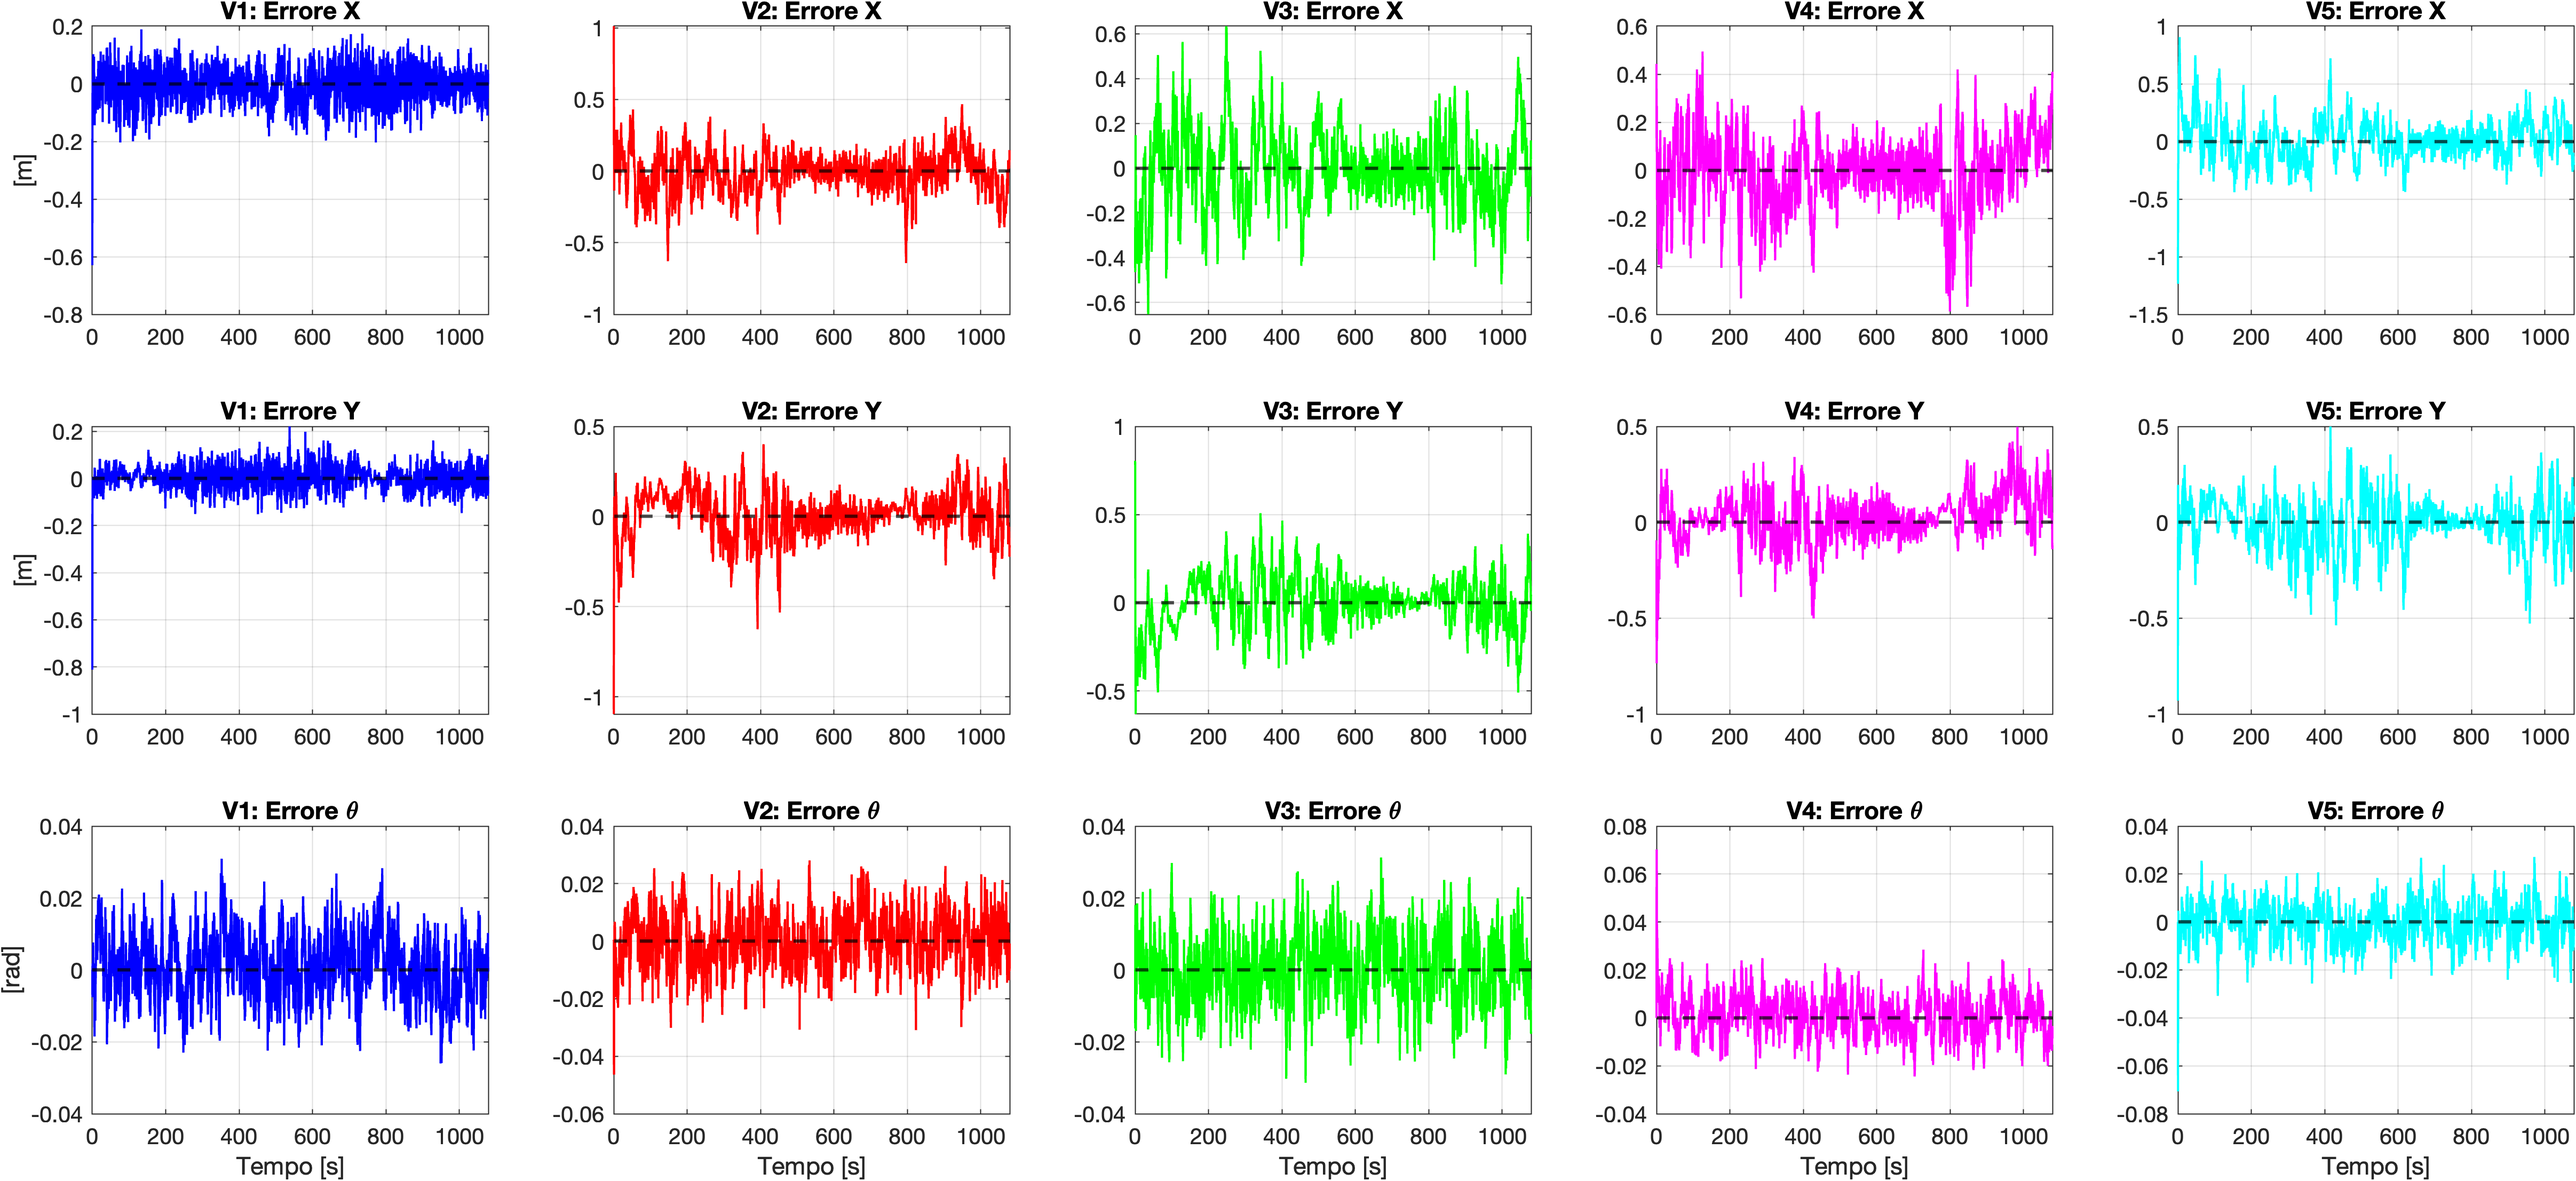
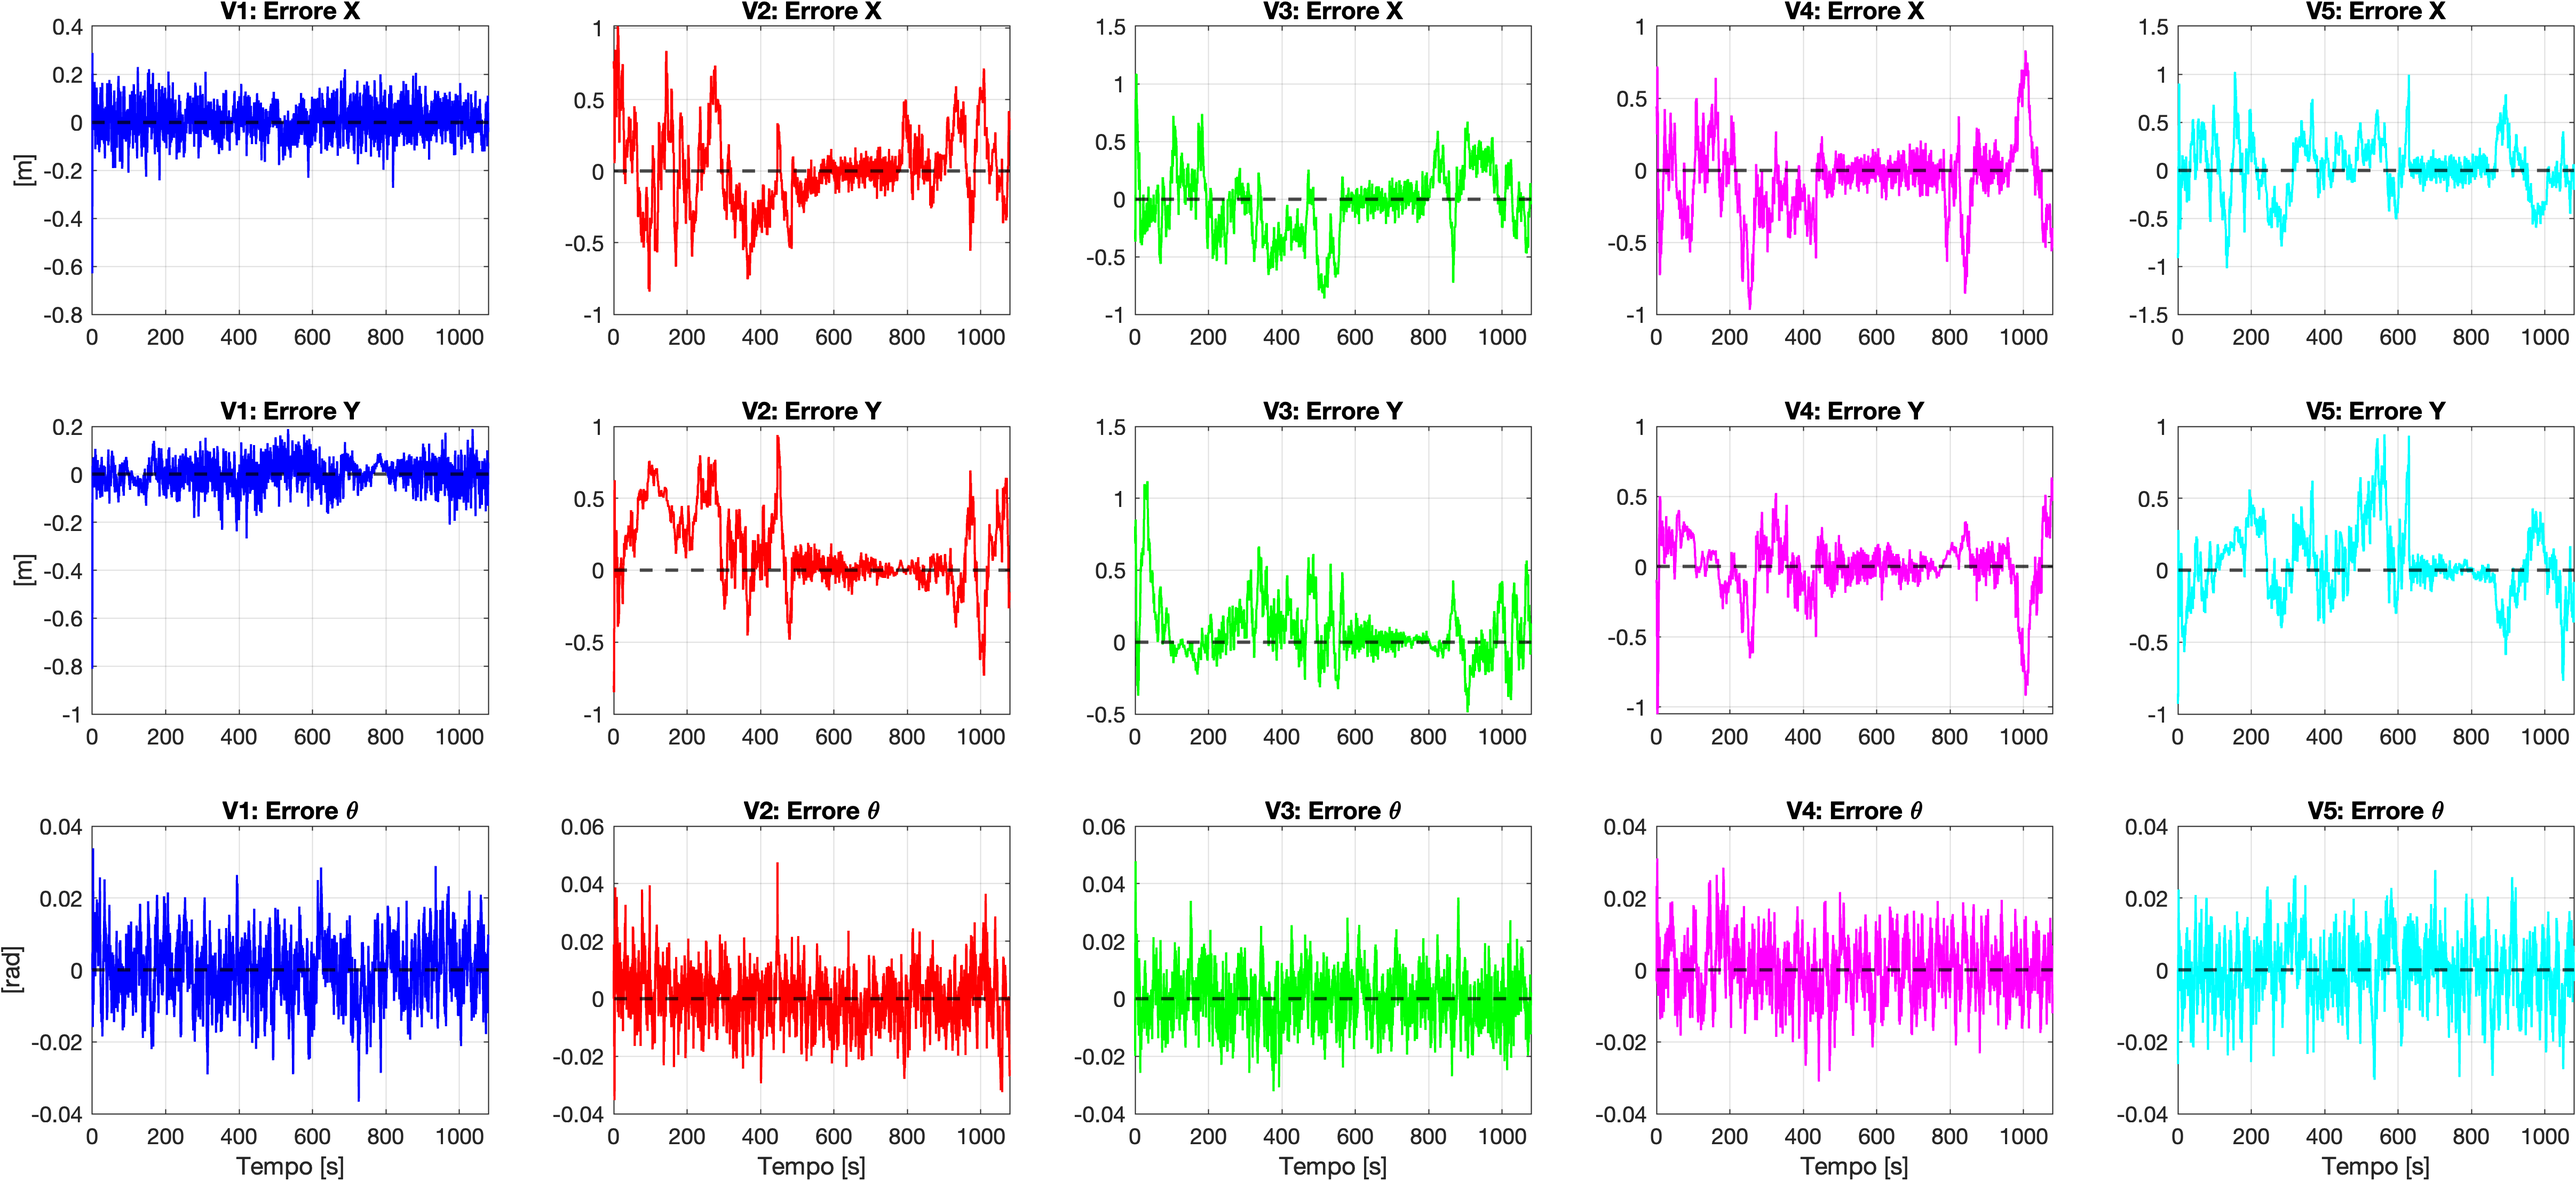
Step 4.2: taratura dei sensori con parametri e frequenze di sensori realmente usati in questo ambito off-highway.
NB: rimane ancora valido che uso le ancore UWB fixed SOLO quando sono in GPS-denied! (rimane l'architettura commutativa, se la tolgo: accuratezza migliora!)

diff --git a/fase_4/main4.m b/fase_4/main4.m
@@ -74,13 +74,38 @@ par_Q.k_terreno = 0.0;    % [1/s]       Q adattiva q_a += k_terreno*v^2, attiva 
 % filtro pessimista e non ottimista: e' la condizione sicura. La calibrazione
 % contro uno slittamento vero sara' possibile solo in Fase 5.
 
-% COVARIANZE DEI SENSORI
-R_gps_master  = diag([0.2^2, 0.2^2]);    % [x, y] ricevitore RTK
-R_gps_slave   = diag([2.0^2, 2.0^2]);    % [x, y] ricevitore standard
-R_imu         = diag([0.05^2, 0.02^2]);  % [theta, omega]
+% SENSORI: MODELLI REALI E FREQUENZE NATIVE
+% Il passo di simulazione resta 10 Hz. Ogni sensore viene pero' trattato per
+% quello che e': chi lavora piu' in fretta del passo si legge a 10 Hz senza
+% penalita', chi lavora piu' piano fornisce una misura solo ogni N passi.
+%
+%   AHRS Xsens MTi-3            100 Hz interni, letto a 10 Hz
+%     filtra internamente e restituisce un assetto gia' elaborato, quindi la
+%     sigma di targa vale alla frequenza di lettura e non va riscalata.
+%   Sensore di velocita' a effetto Hall sul pignone di trazione
+%     conta impulsi sulla finestra di campionamento: 100 ms e' la finestra
+%     naturale, ne' lenta ne' veloce rispetto al passo.
+%   Ranging UWB Qorvo DW1000    ~1 ms per scambio TW-TOF
+%     con 5 ancore e 4 vicini servono 9 scambi, cioe' 9 ms su 100: sta nel passo.
+%   GNSS u-blox ZED-F9P (RTK)   fino a 20 Hz, qui usato a 5 Hz
+%   GNSS u-blox NEO-M8N         1 Hz nominale
+%
+% E' il GNSS l'unico sensore piu' lento del passo, e va decimato: campionarlo
+% a 10 Hz significherebbe dargli fino a dieci volte le misure che produce,
+% cioe' dichiarare un ricevitore migliore di quello montato. Con un NEO-M8N a
+% 1 Hz l'equivalente sarebbe sigma = 0.63 m anziche' 2.0 m.
+R_gps_master  = diag([0.2^2, 0.2^2]);    % [x, y] ZED-F9P in RTK su neve, valore conservativo
+R_gps_slave   = diag([2.0^2, 2.0^2]);    % [x, y] NEO-M8N, 2.5 m CEP da datasheet
+R_imu         = diag([0.05^2, 0.02^2]);  % [theta, omega] MTi-3: 2 deg RMS su yaw
 R_enc         = diag([0.1^2, 0.1^2]);    % [w_destro, w_sinistro]
 R_traz_master = 0.010^2;                 % [-]^2 torsiometro, trasmissione strumentata
 R_traz_slave  = 0.025^2;                 % [-]^2 torsiometro, sensoristica di serie
+
+% Periodo di aggiornamento del GNSS, espresso in passi di simulazione
+f_gps_master  = 5;                       % [Hz] ZED-F9P, conservativo sui 20 di targa
+f_gps_slave   = 1;                       % [Hz] NEO-M8N, frequenza nominale
+passi_gps_master = round(f_s / f_gps_master);   % 1 fix ogni 2 passi
+passi_gps_slave  = round(f_s / f_gps_slave);    % 1 fix ogni 10 passi
 
 % Il torsiometro misura lo sforzo di trazione specifico F_traz/W ed e' l'unico
 % sensore che non serve alla stima della posa: alimenta il D-WLS della §5.
@@ -259,6 +284,8 @@ fleet = repmat(struct( ...
     'in_denied_hist', false(1, N_steps), ...      % copertura GPS
     'n_uwb_hist',     zeros(1, N_steps), ...      % ancore fisse in vista (figura 5)
     'R_gps',          [], ...
+    'passi_gps',      1, ...                     % periodo del fix GNSS, in passi
+    'n_fix_gps',      0, ...                     % fix effettivamente ricevuti
     'R_traz',         0, ...
     'F_loc',          zeros(2), ...               % matrice di informazione locale
     'a_loc',          zeros(2,1), ...             % stato di informazione locale
@@ -273,11 +300,13 @@ for i = 1:N_veh
     fleet(i).Sigma_hist(:,:,1) = fleet(i).Sigma;
 
     if i == 1
-        fleet(i).R_gps  = R_gps_master;
-        fleet(i).R_traz = R_traz_master;
+        fleet(i).R_gps     = R_gps_master;
+        fleet(i).R_traz    = R_traz_master;
+        fleet(i).passi_gps = passi_gps_master;
     else
-        fleet(i).R_gps  = R_gps_slave;
-        fleet(i).R_traz = R_traz_slave;
+        fleet(i).R_gps     = R_gps_slave;
+        fleet(i).R_traz    = R_traz_slave;
+        fleet(i).passi_gps = passi_gps_slave;
     end
 
     fleet(i).target_idx = idx_start + 1;
@@ -519,7 +548,14 @@ for k = 1:N_steps-1
         end
         fleet(i).in_denied_hist(k+1) = in_denied;
 
-        if ~in_denied
+        % Il fix arriva solo ai multipli del periodo del ricevitore. Sono due
+        % condizioni distinte: in_denied dice se il segnale ESISTE in quel
+        % punto, il resto dice se il ricevitore ha prodotto una soluzione a
+        % questo passo. Fra un fix e l'altro il veicolo procede in sola
+        % predizione, sostenuto da AHRS ed encoder.
+        fix_gps = ~in_denied && mod(k, fleet(i).passi_gps) == 0;
+
+        if fix_gps
             % GPS attivo: misura diretta di posizione assoluta
             z_gps    = xt_next(1:2) + chol(fleet(i).R_gps)' * randn(2,1);
             z        = [z; z_gps];                          %#ok<AGROW>
@@ -527,7 +563,8 @@ for k = 1:N_steps-1
             C_k      = [C_k; 1 0 0 0 0; 0 1 0 0 0];         %#ok<AGROW>
             R_k      = blkdiag(R_k, fleet(i).R_gps);
             is_angle = [is_angle; false; false];            %#ok<AGROW>
-        else
+            fleet(i).n_fix_gps = fleet(i).n_fix_gps + 1;
+        elseif in_denied
             % RANGING UWB VERSO LE ANCORE FISSE
             % sono riferimenti ASSOLUTI: ancorano la posizione nel riferimento
             % mappa. Il contatore alimenta la figura 5, dove spiega l'andamento
@@ -913,8 +950,12 @@ for i = 1:N_veh
     cop_tutti   = cop_tutti   & ~fleet(i).in_denied_hist(1:N_end);
     cop_nessuno = cop_nessuno &  fleet(i).in_denied_hist(1:N_end);
 end
-fprintf('Copertura GPS: tutti %.1f%%, mista %.1f%%, nessuno %.1f%%\n', ...
+fprintf('Copertura GPS (segnale disponibile): tutti %.1f%%, mista %.1f%%, nessuno %.1f%%\n', ...
         100*mean(cop_tutti), 100*mean(~cop_tutti & ~cop_nessuno), 100*mean(cop_nessuno));
+fprintf('Fix GNSS effettivi        : V1 %.1f Hz (ZED-F9P), V2-V%d %.1f Hz (NEO-M8N)\n', ...
+        fleet(1).n_fix_gps/t(N_end), N_veh, fleet(2).n_fix_gps/t(N_end));
+fprintf('   in sola predizione fra un fix e l altro: %.0f%% dei passi a cielo aperto\n', ...
+        100*(1 - 1/passi_gps_slave));
 fprintf('   veicolo    MAE con GPS   MAE in zona cieca   tr(Sigma) con GPS / cieca\n');
 ruoli    = repmat({'(Slave) '}, 1, N_veh);
 ruoli{1} = '(Master)';
